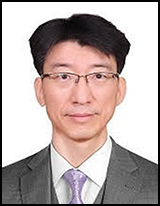
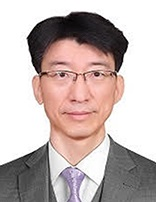
design and content changes to our team page

diff --git a/templates/aboutus/aboutus.html b/templates/aboutus/aboutus.html
@@ -9,7 +9,6 @@
 
 </div>
 </section>
-<!-- our developer -->
 
 <!-- our team -->
 
@@ -17,9 +16,9 @@
     
     <div class="container-fluid-other">
         <h2 class="text-center section-heading mb-5">OUR TEAM</h2>
-        <div class="row g-4 d-flex justify-content-center">
+        <div class="row g-6 justify-content-center">
                 <!-- Single Starts  -->
-                <div class="col-lg-4 col-md-6">
+                <div class="col-lg-4 col-md-4">
                     <div class="team__item set-bg" style="background-image: url('{% static 'images/ft-1.jpg'%}');">                        
                     <div class="team__text">
                         <div class="team__title">
@@ -28,17 +27,17 @@
                         </div>
                         <p class="desc">Dr (Fr) Jossy P George is currently serving as the Director & Dean at Pune Lavasa Campus. He has a dual masters degree in Computer Science and Human Resources from the USA and has done his FDPM from IIMA. </p>
                         <div class="team__social">
-                            <a href="https://mobile.twitter.com/frjossy"><i class="bi bi-twitter text-light mx-1"></i></a>
+                            <a href="https://mobile.twitter.com/frjossy" target="_blank" ><i class="bi bi-twitter text-light mx-1"></i></a>
                             <a href="#"><i class="bi bi-github text-light mx-1"></i></a>
-                            <a href="https://in.linkedin.com/in/frjossy"><i class="bi bi-linkedin text-light mx-1"></i></a>
-                            <a href="https://www.instagram.com/fr.jossy/?hl=en"><i class="bi bi-instagram text-light mx-1"></i></a>
+                            <a href="https://in.linkedin.com/in/frjossy" target="_blank" ><i class="bi bi-linkedin text-light mx-1"></i></a>
+                            <a href="https://www.instagram.com/fr.jossy/?hl=en" target="_blank" ><i class="bi bi-instagram text-light mx-1"></i></a>
                         </div>
                     </div>
                     </div>
                 </div>
                 <!-- Single Ends    -->
-                <div class="col-lg-4 col-md-6">
-                    <div class="team__item set-bg" style="background-image: url('{% static 'images/ft-2.jpg' %}  ');">
+                <div class="col-lg-4 col-md-4">
+                    <div class="team__item set-bg" style="background-image: url('{% static 'images/ft-2.jpg' %}  ') ;">
                     <div class="team__text">
                         <div class="team__title">
                         <h4>Fr Justin P Varghese</h4>
@@ -48,7 +47,7 @@
                         <div class="team__social">
                             <a href="#"><i class="bi bi-twitter text-light mx-1"></i></a>
                             <a href="#"><i class="bi bi-github text-light mx-1"></i></a>
-                            <a href="https://in.linkedin.com/in/justin-p-varghese-2661351a3?trk=public_profile_browsemap"><i class="bi bi-linkedin text-light mx-1"></i></a>
+                            <a href="https://in.linkedin.com/in/justin-p-varghese-2661351a3?trk=public_profile_browsemap" target="_blank" ><i class="bi bi-linkedin text-light mx-1"></i></a>
                             <a href="#"><i class="bi bi-instagram text-light mx-1"></i></a>
                         </div>
                     </div>
@@ -60,8 +59,8 @@
 
         <div class="row">
             <!-- Single Starts  -->
-            <div class="col-lg-4 col-md-6">
-                <div class="team__item set-bg" style="background-image: url('{% static 'images/team-1.jpg' %}  ');">
+            <div class="col-lg-4 col-md-6 ">
+                <div class="team__item set-bg " style="background-image: url('{% static 'images/team-1.jpg' %}  ');">
                 <div class="team__text">
                     <div class="team__title">
                     <h4>Thomas K T</h4>
@@ -71,7 +70,7 @@
                     <div class="team__social">
                         <a href="#"><i class="bi bi-twitter text-light mx-1"></i></a>
                         <a href="#"><i class="bi bi-github text-light mx-1"></i></a>
-                        <a href="https://in.linkedin.com/in/thomas-k-t-50795565"><i class="bi bi-linkedin text-light mx-1"></i></a>
+                        <a href="https://in.linkedin.com/in/thomas-k-t-50795565" target="_blank" ><i class="bi bi-linkedin text-light mx-1"></i></a>
                         <a href="#"><i class="bi bi-instagram text-light mx-1"></i></a>
                     </div>
                 </div>
@@ -79,11 +78,11 @@
             </div>
             <!-- Single Ends    -->
             <div class="col-lg-4 col-md-6">
-                <div class="team__item set-bg" style="background-image: url('{% static 'images/team-6.png' %}  ');">
+                <div class="team__item set-bg" style="background-image: url('{% static 'images/team-6.jpg' %}  ');">
                 <div class="team__text">
                     <div class="team__title">
-                    <h4>Y Woon Kim</h4>
-                    <span>Web Developer</span>
+                    <h4>Yong Woon Kim</h4>
+                    <span>Assistant Professor</span>
                     </div>
                     <p class="desc text-justify">Vestibulum dapibus odio quam, sit amet hendrerit dui </p>
                     <div class="team__social">
@@ -106,7 +105,7 @@
                     <div class="team__social">
                         <a href="#"><i class="bi bi-twitter text-light mx-1"></i></a>
                         <a href="#"><i class="bi bi-github text-light mx-1"></i></a>
-                        <a href="https://in.linkedin.com/in/alwin-joseph-0692b8120"><i class="bi bi-linkedin text-light mx-1"></i></a>
+                        <a href="https://in.linkedin.com/in/alwin-joseph-0692b8120" target="_blank" ><i class="bi bi-linkedin text-light mx-1"></i></a>
                         <a href="#"><i class="bi bi-instagram text-light mx-1"></i></a>
                     </div>
                 </div>
@@ -123,8 +122,8 @@
                     <p class="desc text-justify">Mr Arjun is working as Software Developer in CHRIST Infotech. He holds a Post Graduate degree in Computer Sciene and Applications from CHRIST (Deemed to be University), Bangalore Central Campus. </p>
                     <div class="team__social">
                         <a href="#"><i class="bi bi-twitter text-light mx-1"></i></a>
-                        <a href="#"><i class="bi bi-github text-light mx-1"></i></a>
-                        <a href="https://in.linkedin.com/in/thomas-k-t-50795565"><i class="bi bi-linkedin text-light mx-1"></i></a>
+                        <a href="https://github.com/312arjun" target="_blank" ><i class="bi bi-github text-light mx-1"></i></a>
+                        <a href="#"><i class="bi bi-linkedin text-light mx-1"></i></a>
                         <a href="#"><i class="bi bi-instagram text-light mx-1"></i></a>
                     </div>
                 </div>
@@ -142,7 +141,7 @@
                     <p class="desc text-justify">Alanso Mathew is working as Software Developer in CHRIST Infotech.</p>
                     <div class="team__social">
                         <a href="https://twitter.com/alansomathew" target="_blank"><i class="bi bi-twitter text-light mx-1"></i></a>
-                        <a href="#"><i class="bi bi-github text-light mx-1"></i></a>
+                        <a href="#" target="_blank" ><i class="bi bi-github text-light mx-1"></i></a>
                         <a href="#"><i class="bi bi-linkedin text-light mx-1"></i></a>
                         <a href="#"><i class="bi bi-instagram text-light mx-1"></i></a>
                     </div>
@@ -154,10 +153,62 @@
     </div>
 </section>
 
- <!-- Interns   -->
+                                                            <!-- Interns   -->
+ <section class="colored-section" id="developer">
+    <div class="container-fluid-other">
+        <h2 class="text-center section-heading mb-5">OUR INTERNS</h2>
+        <div class="row g-4 justify-content-center">
+            <div class="col-md-6 col-lg-3">
+                <div class="card bg-light">
+                    <div class="card-body text-center">
+                        <img src="{% static 'images/default.png' %}" class="rounded-circle mb-3" width="100"
+                            height="100" alt="Intern-1">
+                        <h5 class="card-title mb-3">Rohan Harchandani</h5>
+
+                        <a href="#"><i class="bi bi-twitter text-dark mx-1"></i></a>
+                        <a href="https://github.com/rohanhar16" target="_blank" ><i class="bi bi-github text-dark mx-1"></i></a>
+                        <a href="#"><i class="bi bi-linkedin text-dark mx-1"></i></a>
+                        <a href="#"><i class="bi bi-instagram text-dark mx-1"></i></a>
+                    </div>
+                </div>
+            </div>
+            <div class="col-md-6 col-lg-3">
+                <div class="card bg-light">
+                    <div class="card-body text-center">
+                        <img src="{% static 'images/intern-2.jpg' %}" class="rounded-circle mb-3" width="100"
+                            height="100" alt="Intern-2">
+                        <h5 class="card-title mb-3">Stebin George</h5>
+
+                        <a href="#"><i class="bi bi-twitter text-dark mx-1"></i></a>
+                        <a href="#"><i class="bi bi-github text-dark mx-1"></i></a>
+                        <a href="https://www.linkedin.com/in/stebin-george" target="_blank" ><i class="bi bi-linkedin text-dark mx-1"></i></a>
+                        <a href="#"><i class="bi bi-instagram text-dark mx-1"></i></a>
+                    </div>
+                </div>
+            </div>
+            <div class="col-md-6 col-lg-3">
+                <div class="card bg-light">
+                    <div class="card-body text-center">
+                        <img src="{% static 'images/intern-3.jpg' %}" class="rounded-circle mb-3" width="100"
+                            height="100" alt="Intern-3">
+                        <h5 class="card-title mb-3">Tushar Bhalerao</h5>
+
+                        <a href="https://twitter.com/tushinrush" target="_blank"><i class="bi bi-twitter text-dark mx-1"></i></a>
+                        <a href="https://github.com/Rinester88" target="_blank" ><i class="bi bi-github text-dark mx-1"></i></a>
+                        <a href="https://www.linkedin.com/in/tushar-bhalerao-955862167" target="_blank"><i class="bi bi-linkedin text-dark mx-1"></i></a>
+                        <a href="https://www.instagram.com/tushar_bhalerao_01" target="_blank"><i class="bi bi-instagram text-dark mx-1"></i></a>
+                    </div>
+                </div>
+            </div>
+        </div>
+    </div>
+</section>
+
+                                    <!-- Past Employeess -->
+
 <section class="colored-section" id="ourTeam">
     <div class="container-fluid">
-        <h2 class="section-heading text-center pb-3 mb-4">OUR INTERNS</h2>        
+        <h2 class="section-heading text-center pb-3 mb-4">OUR PAST EMPLOYEE</h2>        
         <div class="row g-4 mt-3">          
 
             <div class="col-md-6 col-lg-3">
@@ -166,7 +217,7 @@
                         <img src="{% static 'images/team-4.jpg' %}" class="rounded-circle mb-3" width="100" height="100"
                             alt="Team-4">
                         <h3 class="card-title mb-3">Sonali Rathod</h3>
-                        <p class="card-text">Sonali Rathod is working as Software Develeoper in CHRIST Infotech.</p>
+                        {% comment %} <p class="card-text">Sonali Rathod is working as Software Develeoper in CHRIST Infotech.</p> {% endcomment %}
                         <a href="#"><i class="bi bi-twitter text-light mx-1"></i></a>
                         <a href="#"><i class="bi bi-github text-light mx-1"></i></a>
                         <a href="#"><i class="bi bi-linkedin text-light mx-1"></i></a>

diff --git a/templates/base.html b/templates/base.html
@@ -29,17 +29,6 @@
     <!-- Bootstrap Font Icon CSS  -->
     <link rel="stylesheet" href="https://cdn.jsdelivr.net/npm/bootstrap-icons@1.5.0/font/bootstrap-icons.css">
 
-    <!-- <link rel="stylesheet" href="https://cdn.jsdelivr.net/jquery.slick/1.6.0/slick.css">
-    <link rel="stylesheet" href="https://cdn.jsdelivr.net/jquery.slick/1.6.0/slick-theme.css">
-
-    <script src="https://cdn.jsdelivr.net/npm/bootstrap@5.0.2/dist/js/bootstrap.bundle.min.js"></script>
-    <script src="https://cdn.jsdelivr.net/npm/@popperjs/core@2.9.2/dist/umd/popper.min.js"></script>
-    <script src="https://cdn.jsdelivr.net/npm/bootstrap@5.0.2/dist/js/bootstrap.min.js"></script>
-    <script src="https://cdn.jsdelivr.net/npm/bootstrap@5.1.3/dist/js/bootstrap.bundle.min.js"></script>
-
-
-    <script src="https://cdnjs.cloudflare.com/ajax/libs/jquery/2.2.2/jquery.min.js"></script>
-    <script src="https://cdn.jsdelivr.net/jquery.slick/1.6.0/slick.min.js"></script> --> -->
     <!--Jquery cdn-->
     <script src="https://ajax.googleapis.com/ajax/libs/jquery/3.6.0/jquery.min.js"></script>
     {% block extraStyles %}

diff --git a/static/css/aboutus.css b/static/css/aboutus.css
@@ -1,7 +1,6 @@
 @import url("https://fonts.googleapis.com/css2?family=Poppins:wght@300;500;700&display=swap");
 
-.desc {
-  
+.desc {  
   padding: 0 30px 0;
 }
 .team {
@@ -14,12 +13,17 @@
 }
 .team__item {
   height: 400px;
+  width: auto;
   position: relative;
   z-index: 1;
   margin-bottom: 30px;
   overflow: hidden;
-  background-position: center;
-  background-size: cover;
+  background-size: contain; 
+  background-repeat: no-repeat;
+  background-position-x: center;
+  background-position-y: center;
+
+
 }
 .team__item:after {
   position: absolute;
@@ -132,9 +136,9 @@
 }
 @media (max-width: 768px) {
   .team__item {
-    height: 350px;
+    height: 410px;
   }
   .team__text {
-    padding: 25px 20px 20px;
+    padding: 0px 0px 0px;
   }
 }
